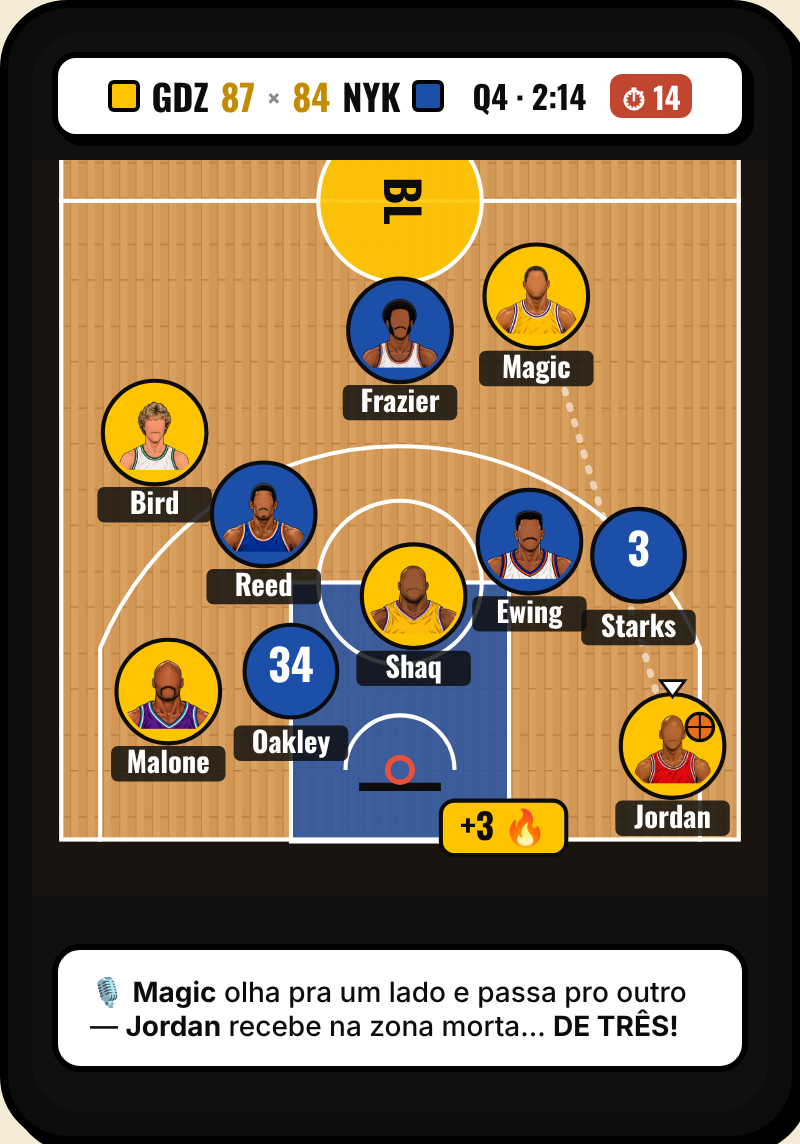
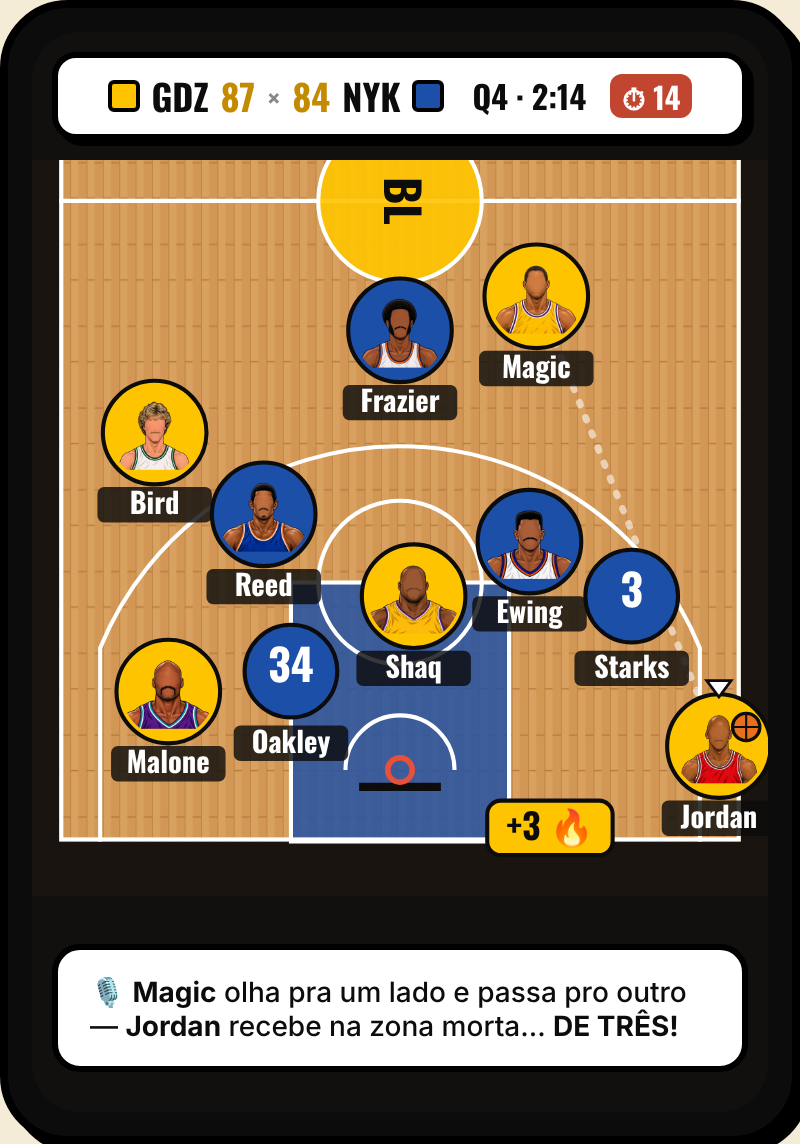
Basquete: mockup da quadra 2D com o arremesso de 3 fora da linha (regra do Diego)
Claude-Session: https://claude.ai/code/session_016MYgForNedEq3kyKQk3Q7y

Changed region(s): [[0.5312, 0.3365, 0.9688, 0.7649]]

diff --git a/scripts/mockups/fontes/quadra2d/gen.py b/scripts/mockups/fontes/quadra2d/gen.py
@@ -35,8 +35,8 @@ def quadra(gid):
   o.append(f'<rect x="1.5" y="1.5" width="{W-3}" height="{H-3}" {L}/>')
   return '\n'.join(o)
 # jogadores (x,y em pés) — ataque dourado indo pra DIREITA
-casa=[('Magic','magic-johnson',32,'PG',63,26),('Jordan','michael-jordan',23,'SG',89,5),('Bird','larry-bird',33,'SF',69,44),('Malone','karl-malone',32,'PF',76,33),('Shaq','shaquille-oneal',34,'C',83,14)]
-fora=[('Frazier','walt-frazier',10,'PG',69,24),('Starks','',3,'SG',83,9),('Reed','willis-reed',19,'SF',75,42),('Oakley','',34,'PF',81,36),('Ewing','patrick-ewing',33,'C',88,18)]
+casa=[('Magic','magic-johnson',32,'PG',63,26),('Jordan','michael-jordan',23,'SG',89,1.5),('Bird','larry-bird',33,'SF',69,44),('Malone','karl-malone',32,'PF',76,33),('Shaq','shaquille-oneal',34,'C',83,14)]
+fora=[('Frazier','walt-frazier',10,'PG',69,24),('Starks','',3,'SG',84,6),('Reed','willis-reed',19,'SF',75,42),('Oakley','',34,'PF',81,36),('Ewing','patrick-ewing',33,'C',88,18)]
 def fichas(rot):
   o=[]
   for lista,cor,txt in ((casa,'#FFC400','#0C0C0C'),(fora,'#1B4FA8','#fff')):
@@ -44,7 +44,7 @@ def fichas(rot):
       px,py=x*S,y*S
       o.append((nome,img,num,cor,txt,px,py))
   return o
-MOB={'Magic':(350,540),'Frazier':(250,565),'Bird':(70,640),'Reed':(150,700),'Malone':(80,830),'Oakley':(170,815),'Shaq':(260,760),'Ewing':(345,720),'Starks':(425,730),'Jordan':(450,870)}
+MOB={'Magic':(350,540),'Frazier':(250,565),'Bird':(70,640),'Reed':(150,700),'Malone':(80,830),'Oakley':(170,815),'Shaq':(260,760),'Ewing':(345,720),'Starks':(420,760),'Jordan':(484,870)}
 def svg(rot, gid):
   w,h=(W,H) if not rot else (H,W)
   tr = '' if not rot else f'transform="translate({H},0) rotate(90)"'
@@ -54,7 +54,7 @@ def svg(rot, gid):
   g.append(f'<g {tr}>'+quadra(gid)+'</g>')
   def P(x,y): return (x,y) if not rot else (H-y,x)
   # passe/rastro da bola: Magic -> Jordan
-  ax,ay=P(63*S,26*S) if not rot else MOB['Magic']; bx_,by_=P(89*S,5*S) if not rot else MOB['Jordan']
+  ax,ay=P(63*S,26*S) if not rot else MOB['Magic']; bx_,by_=P(89*S,1.5*S) if not rot else MOB['Jordan']
   g.append(f'<line x1="{ax}" y1="{ay}" x2="{bx_}" y2="{by_}" stroke="#fff" stroke-opacity=".55" stroke-width="5" stroke-dasharray="2 10" stroke-linecap="round"/>')
   for nome,img,num,cor,txt,px,py in fichas(rot):
     x,y=(P(px,py) if not rot else MOB[nome]); r=38 if rot else 26
@@ -65,11 +65,11 @@ def svg(rot, gid):
     curto=nome
     g.append(f'<rect x="{x-(42 if rot else 34)}" y="{y+r+2}" width="{84 if rot else 68}" height="{26 if rot else 20}" rx="5" fill="#0C0C0C" fill-opacity=".82"/><text x="{x}" y="{y+r+(22 if rot else 17)}" text-anchor="middle" font-family="Oswald" font-weight="700" font-size="{21 if rot else 15}" fill="#fff">{curto}</text>')
   # bola com o Jordan + seta
-  x,y=P(89*S,5*S) if not rot else MOB['Jordan']
+  x,y=P(89*S,1.5*S) if not rot else MOB['Jordan']
   g.append(f'<circle cx="{x+20}" cy="{y-14}" r="10" fill="#E8701A" stroke="#0C0C0C" stroke-width="2.5"/><path d="M{x+10},{y-14} h20 M{x+20},{y-24} v20" stroke="#0C0C0C" stroke-width="1.5"/>')
   g.append(f'<path d="M{x-9},{y-48} h18 l-9,12 z" fill="#fff" stroke="#0C0C0C" stroke-width="2"/>')
   # +3 flutuando sobre a cesta do último lance (exemplo de efeito)
-  x,y=P(89*S,5*S) if not rot else MOB['Jordan']
+  x,y=P(89*S,1.5*S) if not rot else MOB['Jordan']
   bxo,byo=(x-250,y-35) if not rot else (x-170,y+40)
   g.append(f'<g><rect x="{bxo}" y="{byo}" width="92" height="40" rx="10" fill="#FFC400" stroke="#0C0C0C" stroke-width="3"/><text x="{bxo+46}" y="{byo+29}" text-anchor="middle" font-family="Oswald" font-weight="900" font-size="26" fill="#0C0C0C">+3 🔥</text></g>')
   g.append('</svg>')

diff --git a/docs/pendencias.md b/docs/pendencias.md
@@ -29,7 +29,7 @@
 - Corrigido: "Aguardando a bola ao alto da Copa" → "…dos Playoffs".
 - Sala online: (a) trava nova `npm run sala-nba-online` — dono + convidado lado a lado pelo SYNC_STATE, 30/20/10 times (20 com NBA + Mundo): o convidado vê tudo igual, nunca troca de assento nem vira dono, mesmo campeão; (b) tela do DONO com o banco simulado: "CONTINUAR SALA" → contagem → Play-In 1ª rodada → a última vaga → Playoffs jogo 1 (melhor de 7), salvando a sala a cada passo. Falta o teste de verdade com 2 aparelhos (Diego).
 - 🩹 Corrigido: a home do basquete NÃO tinha o "CONTINUAR SALA" (quem caía da sala não tinha o atalho de volta, como no futebol). Agora tem o mesmo botão do futebol.
-- 📺 **Quadra 2D do basquete: NÃO existe ainda.** Hoje o 2D é só do futebol, e no basquete ele fica escondido de propósito (senão abria o campinho de futebol). Diego pediu *"o campo 2d deve funcionar pro Basquete real"*. Próximo passo: MOCKUP da quadra 2D (5×5, quadra de madeira, mesmo visual do campinho) pra aprovação antes de codar. **Mockup feito (18/11):** `scripts/mockups/basquete-quadra2d.png` (computador, quadra inteira deitada) + `basquete-quadra2d-celular.png` (celular: a câmera segue a bola e mostra a meia-quadra do ataque, jogador maior). Fonte em `scripts/mockups/fontes/quadra2d/gen.py`. **Aguardando OK.** Regra a seguir quando codar: o placar do 2D é o MESMO do jogo (igual ao teatro do futebol nas salas), narração = `narracao-basquete.ts`.
+- 📺 **Quadra 2D do basquete: NÃO existe ainda.** Hoje o 2D é só do futebol, e no basquete ele fica escondido de propósito (senão abria o campinho de futebol). Diego pediu *"o campo 2d deve funcionar pro Basquete real"*. Próximo passo: MOCKUP da quadra 2D (5×5, quadra de madeira, mesmo visual do campinho) pra aprovação antes de codar. **Mockup feito (18/11):** `scripts/mockups/basquete-quadra2d.png` (computador, quadra inteira deitada) + `basquete-quadra2d-celular.png` (celular: a câmera segue a bola e mostra a meia-quadra do ataque, jogador maior). Fonte em `scripts/mockups/fontes/quadra2d/gen.py`. **Aguardando OK.** Regra a seguir quando codar: o placar do 2D é o MESMO do jogo (igual ao teatro do futebol nas salas), narração = `narracao-basquete.ts`. 🎯 **REGRA (Diego, 18/11: *"qd faz pts de 3 ele está fora da marcação real?"*): cesta de 3 SEMPRE sai de fora da linha de 3 de verdade (no canto, entre a linha e a lateral) e cesta de 2 de dentro** — o motor da quadra escolhe o ponto do arremesso pelo tipo da cesta do placar. O 1º mockup errou (Jordan 2 pés pra dentro no canto) e foi corrigido.
 
 ## 🧾 15/11 — Sala XEBXDB do Reffatti (Kings): dono perdeu a coroa na FINAL e foi pro menu — REGISTRO publicado, causa ainda aberta
 - O que o banco mostra: 17h02 ele recarregou (o botão Manual sumiu dali em diante = o aparelho dele deixou de ser dono); a sala seguiu
